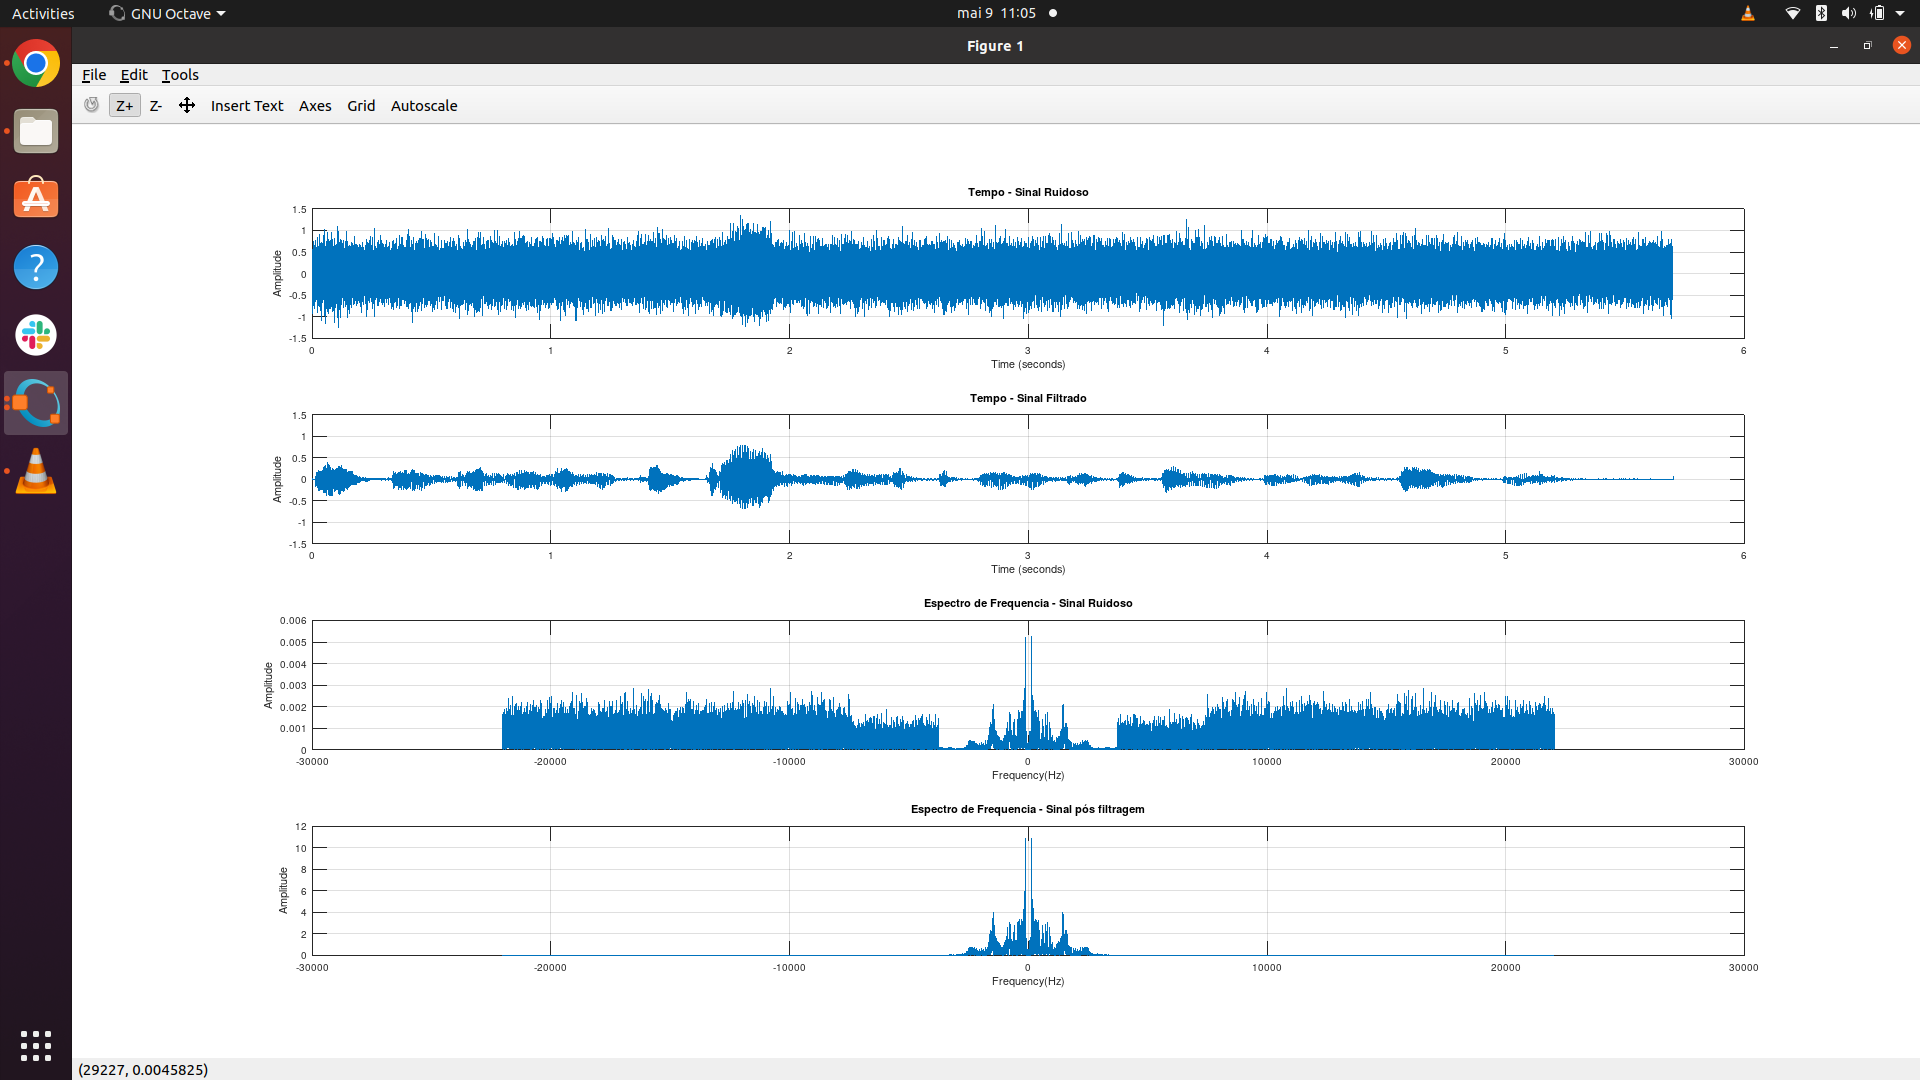
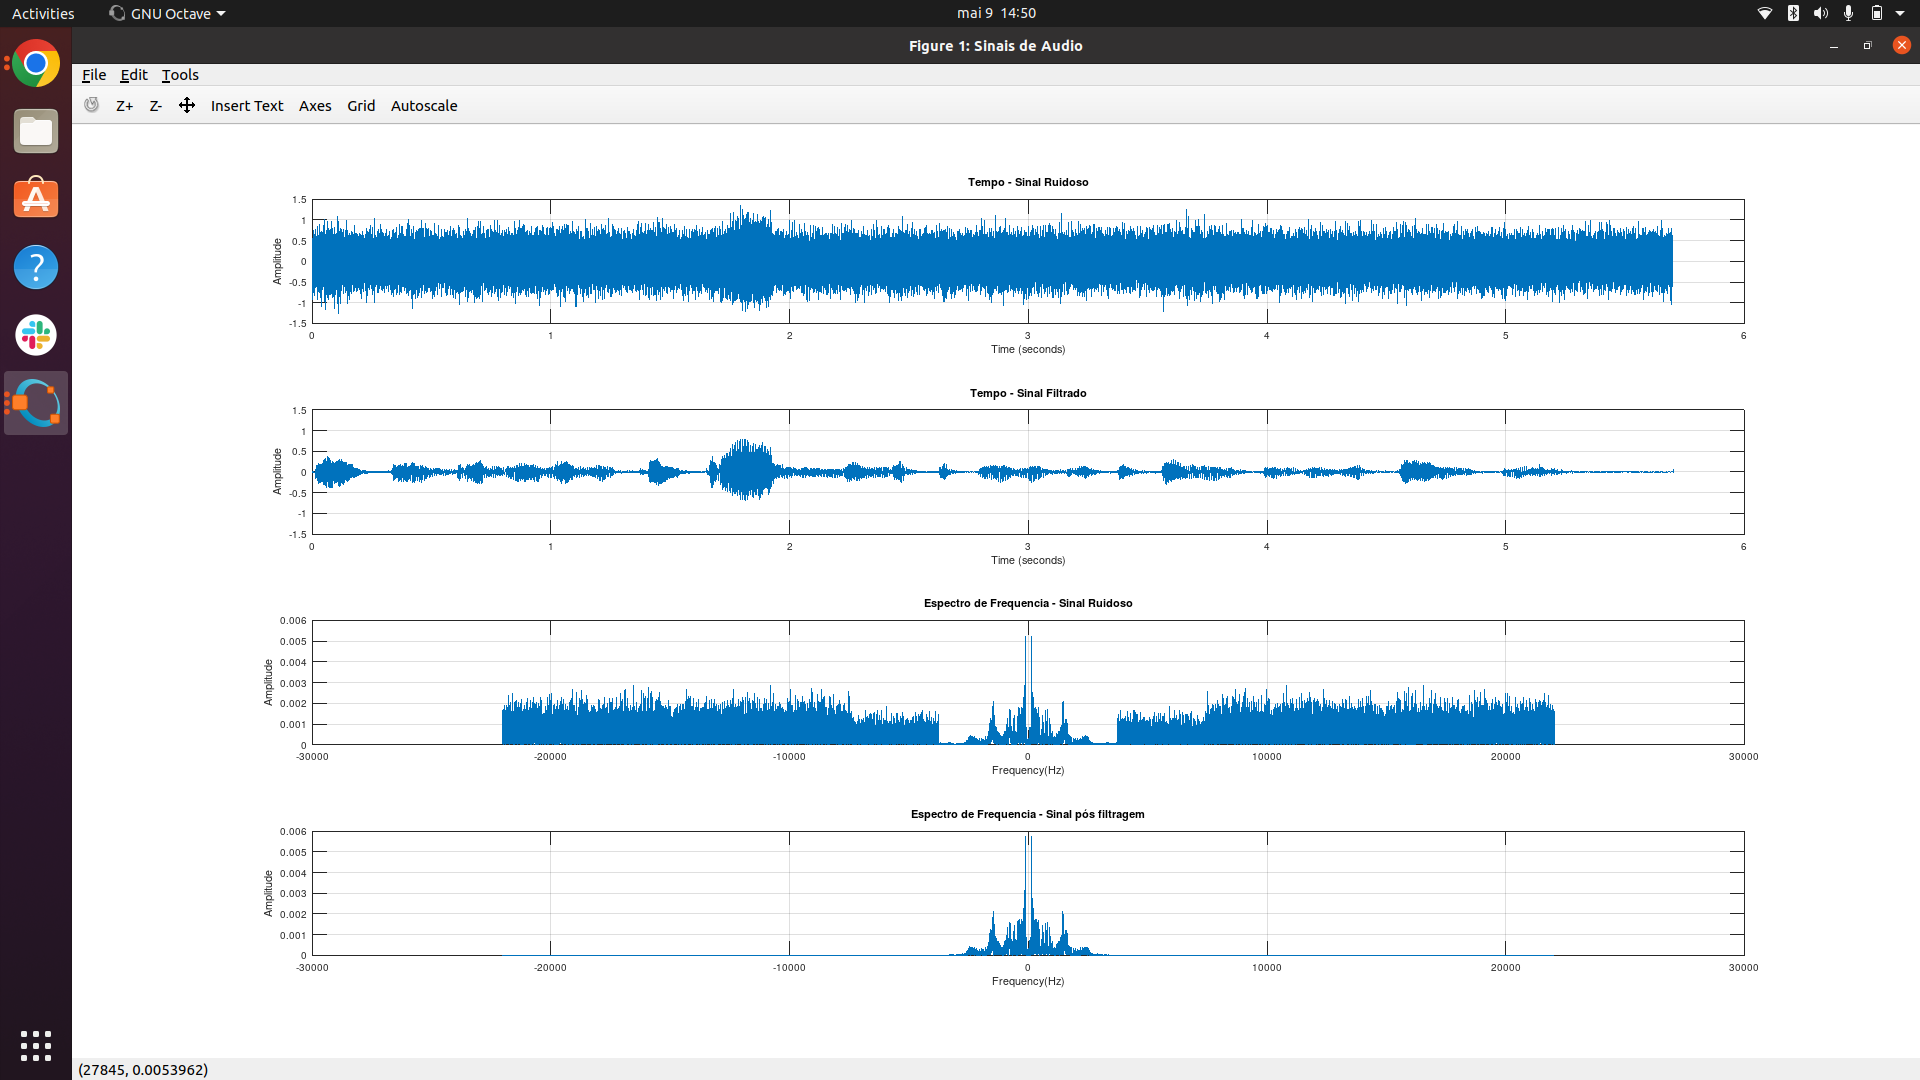
up img

diff --git a/filter.m b/filter.m
@@ -45,17 +45,21 @@ wr = (2*pi*fbr)/Fs; % Transição em rads
 wp = (2*pi*fbp)/Fs; % Passagem em rads
 wc = (wr+wp)/2; % Corte em rads
 Bw = abs(wr - wp)/(2*pi); % Largura de transição normalizada
-N  = ceil(3.3/Bw);   % Comprimento da janela
-M  = N-1;              % Ordem do Filtro;
+Nj  = ceil(3.3/Bw);   % Comprimento da janela
+M  = Nj-1;              % Ordem do Filtro;
 
 % Janelamento da resposta ideal do filtro - Resposta impulsiva do filtro projetado
 h = hamming(wc, M);
 yFiltrado = conv(h, f);
 n = size(yFiltrado,1);
 
+% Play do audio
+sound(yFiltrado, Fs);
+
 audiowrite('SinalFiltrado.wav',yFiltrado,Fs);
 profile off;
 % Plotagens
+figure("name","Sinais de Audio");
 subplot(4,1,1);
 plot(t, f); grid on;
 
@@ -80,13 +84,16 @@ ylabel('Amplitude');
 
 df = Fs / n;
 w2 = (-(n/2):(n/2)-1) * df;
-Y = fft(yFiltrado) / N; 
+Y = fft(yFiltrado)/N; 
 Yfreq = fftshift(Y);
 subplot(4,1,4);
 plot(w2, abs(Yfreq)); grid on; 
 title('Espectro de Frequencia - Sinal pós filtragem')
 xlabel('Frequency(Hz)')
 ylabel('Amplitude');
+
+figure("name","Análise do Filtro");
+freqz(h, 1, 512);
 
 T = profile ("info");
 profshow (T);

diff --git a/README.md b/README.md
@@ -1,7 +1,5 @@
 # Problema 3 da disciplina Processamento Digital de Sinais
 
-## Projeto de um filtro FIR passa-baixas para a remoção de ruído em um sinal de voz
-
 <h3><p><b>Análise Espectral do Sinal de Áudio</b></p></h3> 
 <h1 align="center">
   <img alt="" width="80%" height="auto" title="#menu1" src="./imgs/spectrum analysis.png"/>
